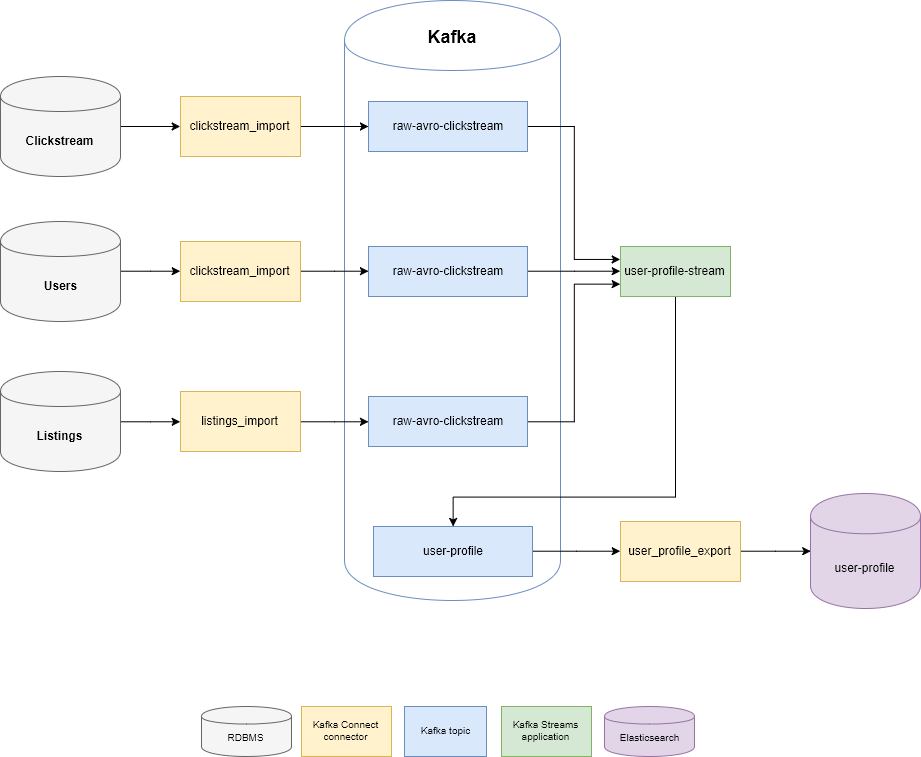
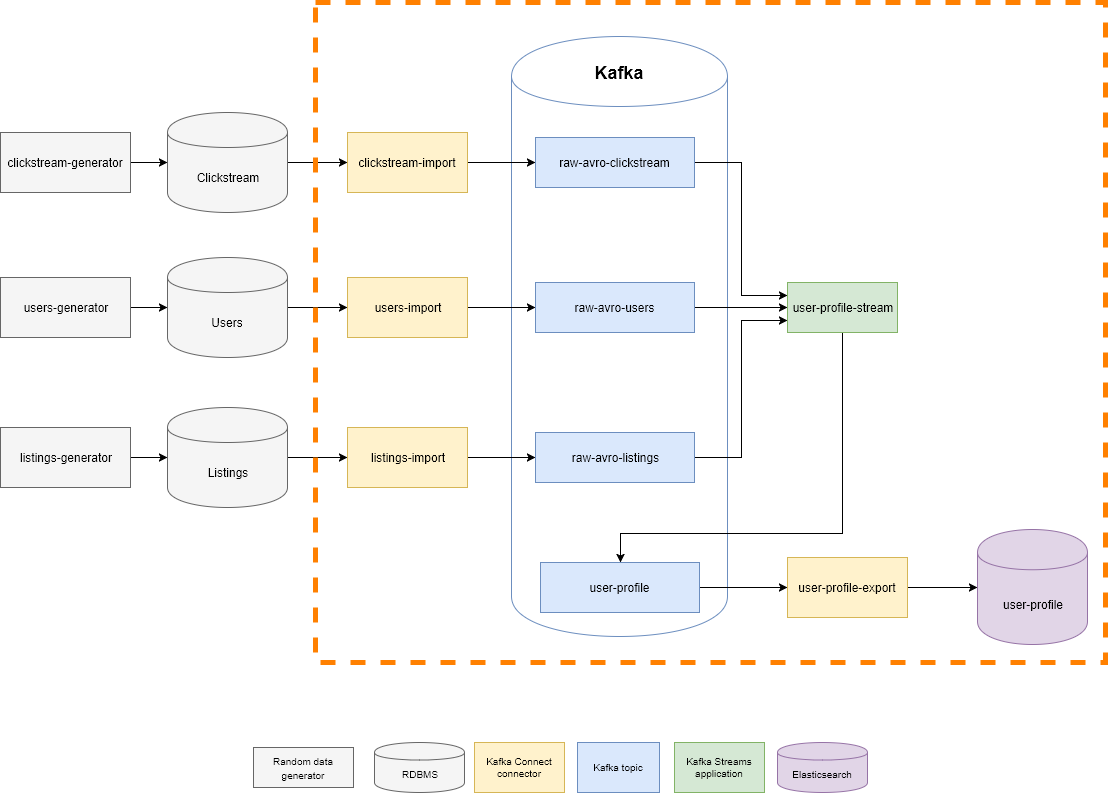
Enriching user profile with user data (join)

diff --git a/user-profile-stream/src/main/java/com/github/piotrkalanski/ApplicationMain.java b/user-profile-stream/src/main/java/com/github/piotrkalanski/ApplicationMain.java
@@ -15,6 +15,7 @@ import java.util.stream.Collectors;
 
 public class ApplicationMain extends KafkaStreamsApplicationBase {
     private static final String CLICKSTREAM_TOPIC = "raw-avro-clickstream";
+    private static final String USERS_TOPIC = "raw-avro-users";
     private static final String OUTPUT_TOPIC = "user-profile-v01";
 
     public static void main(String[] args) {
@@ -29,9 +30,13 @@ public class ApplicationMain extends KafkaStreamsApplicationBase {
         SpecificAvroSerde<Clickstream> clickstreamSpecificAvroSerde = new SpecificAvroSerde<>();
         clickstreamSpecificAvroSerde.configure(Collections.singletonMap(KafkaAvroSerializerConfig.SCHEMA_REGISTRY_URL_CONFIG, "http://localhost:8081"), false);
 
-        KStream<String, Clickstream> userActions = builder.stream(Serdes.String(), clickstreamSpecificAvroSerde, CLICKSTREAM_TOPIC);
+        SpecificAvroSerde<User> usersSpecificAvroSerde = new SpecificAvroSerde<>();
+        usersSpecificAvroSerde.configure(Collections.singletonMap(KafkaAvroSerializerConfig.SCHEMA_REGISTRY_URL_CONFIG, "http://localhost:8081"), false);
 
-        KTable<String, UserProfile> userProfile = userActions
+        KStream<String, Clickstream> userActions = builder.stream(Serdes.String(), clickstreamSpecificAvroSerde, CLICKSTREAM_TOPIC);
+        KTable<String, User> users = builder.table(Serdes.String(), usersSpecificAvroSerde, USERS_TOPIC);
+
+        KTable<String, UserProfile> usersProfiles = userActions
                 .groupByKey(Serdes.String(), clickstreamSpecificAvroSerde)
                 .aggregate(
                         this::emptyProfile,
@@ -39,7 +44,9 @@ public class ApplicationMain extends KafkaStreamsApplicationBase {
                         userProfileSpecificAvroSerde
                 );
 
-        userProfile.to(Serdes.String(), userProfileSpecificAvroSerde, OUTPUT_TOPIC);
+        usersProfiles.join(users, this::mergeUserProfileWithUser);
+
+        usersProfiles.to(Serdes.String(), userProfileSpecificAvroSerde, OUTPUT_TOPIC);
     }
 
     private UserProfile emptyProfile() {
@@ -101,5 +108,13 @@ public class ApplicationMain extends KafkaStreamsApplicationBase {
         if(!listings.stream().anyMatch(x -> x.equals(action.getListingId())))
             listings.add(action.getListingId());
         return listings;
+    }
+
+    protected UserProfile mergeUserProfileWithUser(UserProfile userProfile, User user) {
+        userProfile.setUserName(user.getUserName());
+        userProfile.setUserTitle(user.getTitle());
+        userProfile.setUserCity(user.getCity());
+        userProfile.setUserGender(user.getGender());
+        return userProfile;
     }
 }

diff --git a/user-profile-stream/src/test/java/com/github/piotrkalanski/ApplicationMainTest.java b/user-profile-stream/src/test/java/com/github/piotrkalanski/ApplicationMainTest.java
@@ -131,4 +131,27 @@ public class ApplicationMainTest {
 
         assertEquals(expected, app.calculateListings(initListings, action));
     }
+
+    @Test
+    public void testMergeUserProfileWithUser() {
+        UserProfile userProfile = UserProfile
+                .newBuilder()
+                .setUserId("???")
+                .build();
+        User user = User
+                .newBuilder()
+                .setUserId(1)
+                .setUserName("name")
+                .setGender("gender")
+                .setTitle("title")
+                .setCity("city")
+                .build();
+
+        app.mergeUserProfileWithUser(userProfile, user);
+
+        assertEquals(user.getUserName(), userProfile.getUserName());
+        assertEquals(user.getCity(), userProfile.getUserCity());
+        assertEquals(user.getTitle(), userProfile.getUserTitle());
+        assertEquals(user.getGender(), userProfile.getUserGender());
+    }
 }
